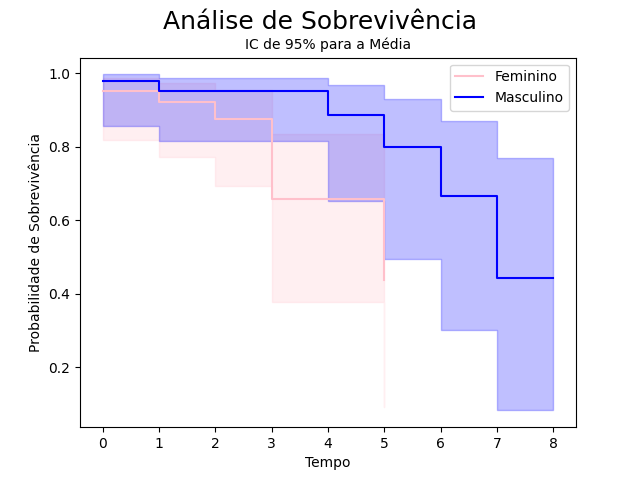
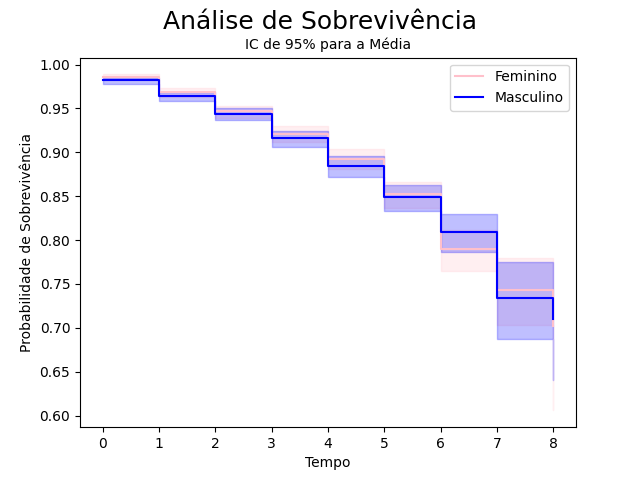
organização

diff --git a/old/oldmarkovchain.py b/old/oldmarkovchain.py
@@ -216,6 +216,21 @@ p = [[0.0, A1toA2, 0.0, 0.0, 0.0, A1toA1R, 0.0, 0.0, 0.0, 0.0, 0.0, 0.0, 0.0, A1
 #      [0.0, 0.0, 0.0, 0.0, 0.0, 0.0, 1.0]]
 
 
+def barplot(title, height, bars):
+    # Make a dataset:
+    y_pos = np.arange(len(bars))
+
+    # Create bars
+    plt.bar(y_pos, height)
+    plt.title(title)
+
+    # Create names on the x-axis
+    plt.xticks(y_pos, bars)
+
+    # Show graphic
+    plt.show()
+
+
 def matriz_transicao():
     q_df = pd.DataFrame(columns=statenames, index=statenames)
     i = 0
@@ -242,11 +257,14 @@ def prob_absor():
 
 def sobrevivencia(time, event_observed, label, color):
     kmf = KaplanMeierFitter()
+    #kmf.fit(time, event_observed, label=label)
 
     for i in range(len(time)):
         kmf.fit(time[i], event_observed[i], label=label[i])
         kmf.plot_survival_function(color=color[i])
 
+
+    #kmf.plot_survival_function(color=color)
     plt.xlabel('Tempo')
     plt.ylabel('Probabilidade de Sobrevivência')
     plt.suptitle("Análise de Sobrevivência", fontsize=18)
@@ -290,28 +308,53 @@ for i in range(len(probGE)):
     print(probGE[i])
 
 
+# Quantidade de anos para simulação
+passosSimu = 10  # Sem trancar
+# passosSimu = 18 # Com trancar
+
+# Gráfico do histórico de distribuição
+# for x in range(passosSimu):
+#     # probalidade dos estado
+#     # print(np.round(state, 3))
+#     state = np.dot(state, p)
+#     stateHist = np.append(stateHist, state, axis=0)
+#     dfDistrHist = pd.DataFrame(stateHist, columns=statenames)
+#
+# dfDistrHist.plot()
+# plt.show()
+# print(dfDistrHist)
 
 
 
-def prob_and_temp(state, x, tempo, quantAlunos):
-    print(f"\nProbabilidade de ser {state}: {np.round(x / quantAlunos * 100)} %")
-    print(f"Tempo médio até ser {state}: {np.round(np.mean(tempo), 3)} anos")
+
+
+
+# Simulação
+n = 1000
+e = 0
+g = 0
+r = 0
+t = 0
+tempo = np.arange(0, passosSimu, 1)
+time = np.array([])
+tempo_ate_retido = []
+tempo_ate_trancado = []
+tempo_ate_evadido = []
+tempo_ate_graduado = []
+event_observedE = np.array([])
+event_observedG = np.array([])
+event_observedT = np.array([])
+event_observedR = np.array([])
+
+
+# def array(quantAlunos):
 
 
 def Simu(quantAlunos, matriz):
+    print(f"\nSimulação com {quantAlunos} alunos")
     e = 0
-    g = 0
-    r = 0
-    t = 0
     time = np.array([])
-    tempo_ate_retido = []
-    tempo_ate_trancado = []
-    tempo_ate_evadido = []
-    tempo_ate_graduado = []
     event_observedE = np.array([])
-    event_observedG = np.array([])
-    event_observedT = np.array([])
-    event_observedR = np.array([])
 
     for i in range(quantAlunos):
         a = Aluno(i, matriz)
@@ -329,79 +372,102 @@ def Simu(quantAlunos, matriz):
             estados[k] = 1
         event_observedE = np.concatenate((event_observedE, estados))
 
-        estados = np.zeros((a.nb_state,), dtype=int)
-        if 'G' in arr:
-            g += 1  # quantidade para probabilidade
-            k = arr.index("G")
-            tempo_ate_graduado.append(k)
-            estados[k] = 1
-        event_observedG = np.concatenate((event_observedG, estados))
 
-        # Trancado
-        estados = np.zeros((a.nb_state,), dtype=int)
-        count = 0
-        for estado in arr:
-            if estado == 'T' and count < a.nb_state - 1:
-                estados[count] = 1
-            count += 1
-        event_observedT = np.concatenate((event_observedT, estados))
-
-        if 'T' in arr:
-            t += 1
-            k = arr.index("T")
-            tempo_ate_trancado.append(k)
-
-        # Retido
-        estados = np.zeros((a.nb_state,), dtype=int)
-        count = 0
-        for estado in arr:
-            if 'R' in estado and count < a.nb_state - 1:
-                estados[count] = 1
-            count += 1
-        event_observedR = np.concatenate((event_observedR, estados))
-
-        # Se ficou Retido em algum dos estados
-        count = 0
-        for estado in arr:
-            if 'R' in estado:
-                tempo_ate_retido.append(count)
-                r += 1
-                break
-            count += 1
-
-
-    prob_and_temp("Retido", r, tempo_ate_retido, quantAlunos)
-    prob_and_temp("Evadido", e, tempo_ate_evadido, quantAlunos)
-    prob_and_temp("Graduado", g, tempo_ate_graduado, quantAlunos)
-    # prob_and_temp("Trancado", t, tempo_ate_trancado, quantAlunos)
-
-
-    return time, event_observedE, event_observedG, event_observedR, event_observedT
+    return time, event_observedE
 
 
 
 
-quantAlunos = 1000
 
 
-# Simulação por Gênero
-timeF, event_observedEF, event_observedGF, event_observedRF, event_observedTF = Simu(quantAlunos, 'matrixF.csv')  # Exemplo Feminino
-timeM, event_observedEM, event_observedGM, event_observedRM, event_observedTM = Simu(quantAlunos, 'matrixM.csv')  # Exemplo Masculino
 
-times = [timeF, timeM]
-events = [event_observedEF, event_observedEM]
-colors = ["pink", "blue"]
-labels = ["Feminino", "Masculino"]
+print(f"\nSimulação com {n} alunos")
+for i in range(n):
+    arr = mc.walk(passosSimu, 'A1')
 
-sobrevivencia(times, events, labels, colors)
+    # Cria Arrays para analise de sobrevivencia e Verificar se foi G, E, T ou R em algum dos estados
+    time = np.concatenate((tempo, time))
+    estados = np.zeros((passosSimu,), dtype=int)
+    if 'E' in arr:
+        e += 1  # quantidade para probabilidade
+        k = arr.index("E")
+        tempo_ate_evadido.append(k + 1)
+        estados[k + 1] = 1
+        # for k in range(len(estados)):
+        #     estados[k] = 1
+    event_observedE = np.concatenate((event_observedE, estados))
+
+    estados = np.zeros((passosSimu,), dtype=int)
+    if 'G' in arr:
+        g += 1  # quantidade para probabilidade
+        k = arr.index("G")
+        tempo_ate_graduado.append(k + 1)
+        estados[k + 1] = 1
+        # for k in range(len(estados)):
+        #     estados[k] = 1
+    event_observedG = np.concatenate((event_observedG, estados))
+
+    # Trancado
+    estados = np.zeros((passosSimu,), dtype=int)
+    count = 0
+    for estado in arr:
+        if estado == 'T' and count < passosSimu - 1:
+            estados[count + 1] = 1
+        count += 1
+    event_observedT = np.concatenate((event_observedT, estados))
+
+    if 'T' in arr:
+        t += 1
+        k = arr.index("T")
+        tempo_ate_trancado.append(k + 1)
+
+    # Retido
+    estados = np.zeros((passosSimu,), dtype=int)
+    count = 0
+    for estado in arr:
+        if 'R' in estado and count < passosSimu - 1:
+            estados[count + 1] = 1
+        count += 1
+    event_observedR = np.concatenate((event_observedR, estados))
+
+    # Se ficou Retido em algum dos estados
+    count = 0
+    for estado in arr:
+        if 'R' in estado:
+            tempo_ate_retido.append(count + 1)
+            r += 1
+            break
+        count += 1
+
+print(f"\nProbabilidade de ser retido: {r / n * 100} %")
+# print(f"Probabilidade de ser trancado: {t / n * 100} %")
+print(f"Probabilidade de evasão: {e / n * 100} %")
+print(f"Probabilidade de graduação: {g / n * 100} %")
+print(f"Tempo médio até ser retido: {np.round(np.mean(tempo_ate_retido), 3)} anos")
+# print(f"Tempo médio até ser trancado: {np.round(np.mean(tempo_ate_trancado), 3)} anos")
+print(f"Tempo médio até ser evadido: {np.round(np.mean(tempo_ate_evadido), 3)} anos")
+print(f"Tempo médio até ser graduado: {np.round(np.mean(tempo_ate_graduado), 3)} anos")
 
 
-# Simulação Geral
-time, event_observedE, event_observedG, event_observedR, event_observedT = Simu(quantAlunos, 'matrix.csv')
+
+
+
+
 
 sobrevivencia([time], [event_observedE], ['Evadido'], ["red"])
 sobrevivencia([time], [event_observedG], ['Graduado'], ["green"])
 sobrevivencia([time], [event_observedR], ['Retido'], ["orange"])
-# sobrevivencia([time], [event_observedT], ['Trancado'], ["grey"])
+# sobrevivencia(time, event_observedT, 'Trancado', "grey")
 
 
+time1, event_observed1 = Simu(10, 'matrix.csv')  # Exemplo Feminino
+time2, event_observed2 = Simu(10, 'matrix.csv')  # Exemplo Masculino
+
+times = [time1, time2]
+events = [event_observed1, event_observed2]
+colors = ["pink", "blue"]
+labels = ["Feminino", "Masculino"]
+
+print(time1)
+print(event_observed1)
+sobrevivencia(times, events, labels, colors)

diff --git a/old/plot.py b/old/plot.py
@@ -1,3 +1,19 @@
+# def barplot(title, height, bars):
+#     # Make a dataset:
+#     y_pos = np.arange(len(bars))
+#
+#     # Create bars
+#     plt.bar(y_pos, height)
+#     plt.title(title)
+#
+#     # Create names on the x-axis
+#     plt.xticks(y_pos, bars)
+#
+#     # Show graphic
+#     plt.show()
+
+
+
 # # Gráfico Retenção
 # barplot("Probabilidade de Retenção", ret, statenames[:5])
 # plt.show()
@@ -32,7 +48,21 @@
 # dfGE.plot.bar(rot=0, color={"Não Retidos": "green", "Retidos": "red"}, title="Probabilidade de Graduação")
 # plt.show()
 
+# Quantidade de anos para simulação
+# passosSimu = 10  # Sem trancar
+# passosSimu = 18 # Com trancar
 
+# Gráfico do histórico de distribuição
+# for x in range(passosSimu):
+#     # probalidade dos estado
+#     # print(np.round(state, 3))
+#     state = np.dot(state, p)
+#     stateHist = np.append(stateHist, state, axis=0)
+#     dfDistrHist = pd.DataFrame(stateHist, columns=statenames)
+#
+# dfDistrHist.plot()
+# plt.show()
+# print(dfDistrHist)
 
 # Outros
 # print(mc.expected_transitions(1))

diff --git a/Aluno.py b/Aluno.py
@@ -1,18 +1,17 @@
 import numpy as np
 import pandas as pd
 
-#Transition probabilities matrix
-df_Q = pd.read_csv('matrix.csv', index_col=0)
 
 class Aluno:
 
-    def __init__(self, aluno_id, states):
+    def __init__(self, aluno_id, matrix):
         self.aluno_id = aluno_id
-        self.state = states[0]
-        self.states = states
+        self.df_Q = pd.read_csv(matrix, index_col=0)
+        self.states = self.df_Q.columns
+        self.state = self.states[0]
         self.nb_state = 1
         self.gen = self.markov()
-        self.history = [states[0]]
+        self.history = [self.states[0]]
 
     def get_next_state(self):
         return next(self.gen)
@@ -22,7 +21,7 @@ class Aluno:
         while self.state != 'G' and self.state != 'E':
 
             # calculate the next state
-            next_state = np.random.choice(self.states, 1, p=df_Q.loc[f'{self.state}'])[0]
+            next_state = np.random.choice(self.states, 1, p=self.df_Q.loc[f'{self.state}'])[0]
 
             if next_state == 'G':
                 self.state = 'G'

diff --git a/tests/test3.py b/tests/test3.py
@@ -1,23 +1,7 @@
 from Aluno import Aluno
 
-statenames = ['A1', 'A2', 'A3', 'A4', 'A5', 'A1R', 'A2R', 'A3R', 'A4R', 'A5R', 'A6R', 'A7R', 'G', 'E']
-
-#teste
-# for i in range(10):
-#     a = Aluno(i, statenames)
-#     list(a.gen)
-#     states = a.history
-#     print(states)
-    #print(a.get_quant_trans())
-
-# for i in range(10):
-#     a = Aluno(i, statenames)
-#     #next = a.get_next_state()
-#     list(a.gen)
-#     states = a.history
-#     print()
-
 a = Aluno(1)
+# next = a.get_next_state()
 list(a.gen)
 states = a.history
 time = a.nb_state
